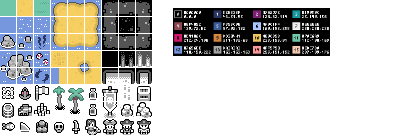
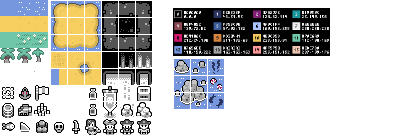
Add files via upload

Changed region(s): [[0.0, 0.0, 0.3824, 0.8593], [0.4118, 0.4148, 0.5588, 0.8296]]

diff --git a/core/terrain.py b/core/terrain.py
@@ -8,7 +8,7 @@ from perlin_noise import PerlinNoise
 #Configurações iniciais
 
 width, heigh = 960, 640
-tile_size = 16
+tile_size = 48
 chunk_size = 8
 map_width = int(width / chunk_size)
 map_heigth = int(heigh / chunk_size)
@@ -27,11 +27,7 @@ sprite_sheet = pygame.image.load("assets/tilemap.png").convert_alpha()
 #Geração do terreno
 class terrain:
 
-    def __init__(self):
-        pass    
-
     # Função para cortar um sprite da sprite sheet
-    #@staticmethod
     def get_sprite(sheet, x, y, width, height):
         sprite = pygame.Surface((width, height), pygame.SRCALPHA)  # Permite transparência
         sprite.blit(sheet, (0, 0), (x, y, width, height))  # Copia a parte desejada
@@ -41,11 +37,11 @@ class terrain:
     # Cria uma matriz (lista) de sprites, cada linha é uma direção e cada coluna um frame da animação
     sprites = [
             [get_sprite(sprite_sheet, 0, 0, 16, 16)],
-            [get_sprite(sprite_sheet, 0, 16, 16, 16)],
-            [get_sprite(sprite_sheet, 0, 32, 16, 16)],   
+            [get_sprite(sprite_sheet, 16, 16, 16, 16)],
+            [get_sprite(sprite_sheet, 0, 32, 16, 16), get_sprite(sprite_sheet, 0, 48, 16, 16), get_sprite(sprite_sheet, 16, 48, 16, 16), get_sprite(sprite_sheet, 32, 48, 16, 16)],
         ]
 
-    #@staticmethod
+    #Obrigado @DaFluffyPotato (Thank you @DaFluffyPotato)
     def gera_chunk(seed, x, y):
         noise = PerlinNoise(octaves=6, seed=seed)
         scale = 160.0  # controla o "zoom" no mapa; Controla a densidade do ruído. Aumente se tudo estiver “granulado”; diminua se estiver “liso demais”.
@@ -64,16 +60,24 @@ class terrain:
                 # normaliza para [0, 1]
                 
                 # Define tipos de tiles com base na altura
-                tile_type = 0
-                if h > 0.65:
-                    tile_type = 2
+                tile_type = 0 #agua
+                if h > 0.63:
+                    tile_type = 2 #grama
                 elif h > 0.6:
-                    tile_type = 1
-                if tile_type != 0:
-                    chunk_tiles.append([[target_x,target_y],tile_type])
+                    tile_type = 1 #areia
+
+                tree = 0 
+                chance = random.randint(0,9)
+                if tile_type >= 1 and chance < 3:
+                    tree = 1
+                elif tile_type >= 1 and chance < 2:
+                    tree = 2
+                elif tile_type >= 1 and chance < 1:
+                    tree = 3    
+                if tile_type != 0: 
+                    chunk_tiles.append([[target_x,target_y],tile_type, tree])
         return chunk_tiles
 
-    #@staticmethod
     def desenha_mundo(seed, screen, cx, cy, WIDTH, HEIGHT):
         # calcula quantos tiles cabem na tela
         tiles_x = WIDTH // tile_size + 2
@@ -83,27 +87,6 @@ class terrain:
         start_x = cx // tile_size
         start_y = cy // tile_size
 
-        # for y in range(start_y, start_y + tiles_y):
-        #     for x in range(start_x, start_x + tiles_x):
-        #         # target_x = x + int(10/chunk_size * tile_size)
-        #         # target_y = y + int(10/chunk_size * tile_size)
-        #         # target_chunck = str(x) + ';' + str(y)
-        #         target_chunk = str(x // chunk_size) + ';' + str(y // chunk_size)
-
-        #         if target_chunck not in game_map:
-        #             game_map[target_chunck] = terrain.gera_chunk(seed, target_x, target_y)
-        #         for pos, tile in game_map[target_chunck]:
-        #             tx, ty = pos  # posição (x,y) do tile no mundo
-        #             if tile == 0:
-        #                 sprite = terrain.sprites[0][0] #Mar
-        #             elif tile == 1:
-        #                 sprite = terrain.sprites[1][0] #Praia
-        #             elif tile == 2:
-        #                 sprite = terrain.sprites[2][0] #Grama
-        #             else:
-        #                 pass
-        #            screen.blit(sprite, (tx*tile_size,ty*tile_size))# Desenha o sprite atual
-
         for y in range(start_y, start_y + tiles_y):
                 for x in range(start_x, start_x + tiles_x):
                     target_chunk = str(x // chunk_size) + ';' + str(y // chunk_size)
@@ -111,29 +94,18 @@ class terrain:
                     if target_chunk not in game_map:
                         game_map[target_chunk] = terrain.gera_chunk(seed, x // chunk_size, y // chunk_size)
 
-                    for pos, tile in game_map[target_chunk]:
+                    for pos, tile, tree in game_map[target_chunk]:
                         tx, ty = pos
                         if tx == x and ty == y:  # só desenha o tile certo
                             sprite = terrain.sprites[tile][0]
                             screen.blit(sprite, (tx * tile_size - cx, ty * tile_size - cy))
+                            # Se for grama e tiver árvore
+                            if tile >= 1 and tree == 1:
+                                screen.blit(terrain.sprites[2][1], (tx * tile_size - cx, ty * tile_size - cy))
+                            if tile >= 1 and tree == 2:
+                                screen.blit(terrain.sprites[2][2], (tx * tile_size - cx, ty * tile_size - cy))
+                            if tile >= 1 and tree == 3:
+                                screen.blit(terrain.sprites[2][3], (tx * tile_size - cx, ty * tile_size - cy))
 
-# ct = [[[x,y],t]]
-
-def main():
-    clock = pygame.time.Clock()
-    seed = random.randint(0, 1000)
-
-    running = True
-    while running:
-        for event in pygame.event.get():
-            if event.type == pygame.QUIT:
-                running = False
-
-        terrain.desenha_mundo(seed)
-        pygame.display.flip()
-        clock.tick(30)
-
-    pygame.quit()
-
-if __name__ == "__main__":
-    main()
+# if __name__ == "__main__":
+#     main()

diff --git a/main.py b/main.py
@@ -1,7 +1,7 @@
 import pygame 
+import random
 from core.player import *
 from core.terrain import *
-
 
 pygame.init()
 
@@ -14,8 +14,7 @@ pygame.display.set_caption("FISH&FIGHT")
 clock = pygame.time.Clock()
 running = True
 
-# Mundo maior que a tela
-WORLD_WIDTH, WORLD_HEIGHT = 2000, 2000
+seed = random.randint(0, 1000)
 
 cx = player.x -  WIDTH // 2
 cy = player.y - HEIGHT // 2
@@ -36,9 +35,12 @@ def movimentacao():
 
     player.navegar()#Movimenta o jogador
     screen.blit(player.sprites[player.table][player.current_sprite], (player_x - camera_x, player_y - camera_y,))# Desenha o sprite atual
-    player.current_sprite = (player.current_sprite + 1) % len(player.sprites[player.table])# Alterna o sprite para animar (simplesmente trocando o índice)
+    #player.current_sprite = (player.current_sprite + 1) % len(player.sprites[player.table])# Alterna o sprite para animar (simplesmente trocando o índice)
 
-seed = random.randint(0, 1000)
+def debug():
+    font = pygame.font.SysFont(None, 28)
+    text = font.render(f"Seed: ({seed}) | fps: ({int(clock.get_fps())}) | Plr: ({player.x}, {player.y}) | Cam: ({cx}, {cy}) ", True, (255, 255, 0))
+    screen.blit(text, (10, 10))
 
 while running:
     # poll for events
@@ -53,10 +55,11 @@ while running:
     terrain.desenha_mundo(seed, tela, cx, cy, WIDTH, HEIGHT)
 
     movimentacao()
+    debug()
 
     # flip() the display to put your work on screen
     pygame.display.flip()
 
-    clock.tick(16)  # limits FPS to 12
-
+    clock.tick(60)  # limits FPS to 60
+    
 pygame.quit()

diff --git a/core/player.py b/core/player.py
@@ -9,11 +9,6 @@ sprite_sheet = pygame.image.load("assets/boat.png").convert_alpha()
 
 class player:
 
-    global sprite_sheet
-
-    def __init__(self):
-        pass
-
     # Função para cortar um sprite da sprite sheet
     def get_sprite(sheet, x, y, width, height):
         sprite = pygame.Surface((width, height), pygame.SRCALPHA)  # Permite transparência
